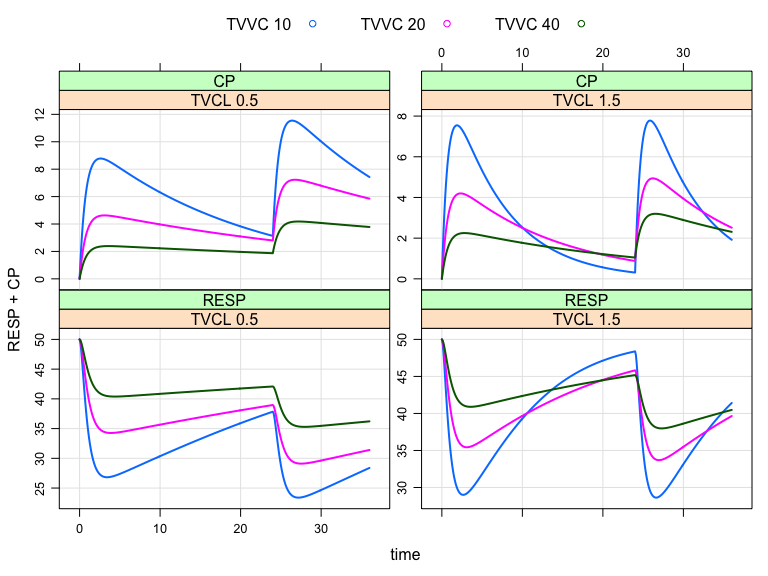
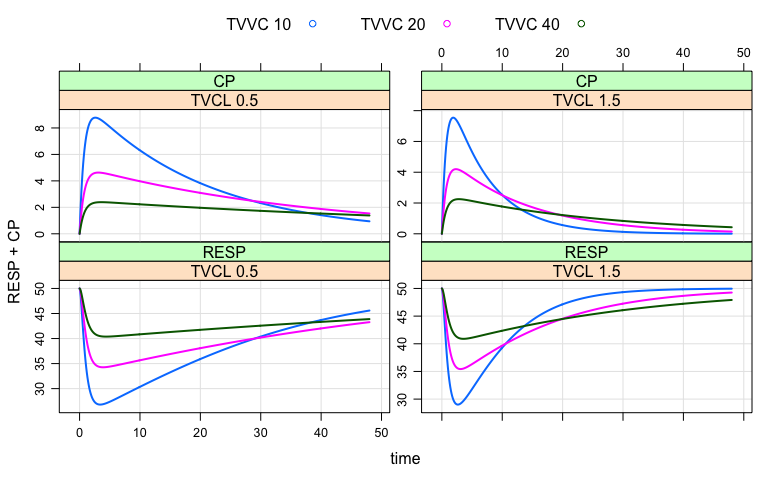
RE-size figures

diff --git a/README.md b/README.md
@@ -149,10 +149,10 @@ plot(out, CP+RESP~.)
 
 ``` r
 out <- 
-  mod %>%
-  ev(amt=100, ii=24, addl=2) %>%
+  mod %>% update(end=48) %>%
+  ev(amt=100) %>%
   Req(CP,RESP) %>%
-  knobs(TVVC=c(10,20,40), TVCL=c(0.5,1.5),end=36)
+  knobs(TVVC=c(10,20,40), TVCL=c(0.5,1.5))
 ```
 
 ``` r
@@ -200,7 +200,7 @@ out <-
   mod %>%
   data_set(.data) %>%
   Req(RESP,CP) %>% obsonly %>%
-  carry.out(dose) %>%
+  carry_out(dose) %>%
   mrgsim(end=48, seed=1010)
 ```
 
